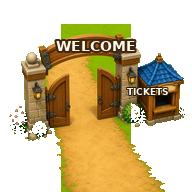
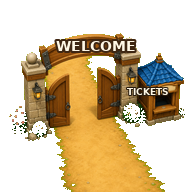
Join the dirt spine to each pen and drop the lime mats.
Punch leftover lawn plates off the gate and exhibit yards. Stop dest-out from eating the south approach, then force a packed-earth figure from the WELCOME mouth to every south bridge. Lose the yellow spreadsheet outline; denizens walk inside the ring; lamps are posts, not people.

diff --git a/typehouse/js/sprites.js b/typehouse/js/sprites.js
@@ -329,6 +329,7 @@
       ["kiln", "well", "greenhouse"].forEach(function (n) {
         if (IMG[n] && srcW(IMG[n])) IMG[n] = punchRail(IMG[n]);
       });
+      if (IMG.cottage && srcW(IMG.cottage)) IMG.cottage = punchCottagePlate(IMG.cottage);
     }
     waiters.splice(0).forEach(function (fn) {
       fn();
@@ -365,7 +366,7 @@
   }
 
   function isPlateLime(r, g, b, a) {
-    return a > 8 && b < 18 && g > 150 && g > r + 12;
+    return a > 8 && g > 100 && g >= r + 8 && g > b + 20 && b < 90;
   }
 
   /* Kill leftover lime grass plate. Keep the circular rail + south wood bridge. */
@@ -418,6 +419,26 @@
         if (bridge) continue;
         px[i + 3] = 0;
       }
+    }
+    ctx.putImageData(data, 0, 0);
+    return c;
+  }
+
+  /* Gatehouse: keep stone, wood, tickets, dirt stub. Lose the lime rectangle. */
+  function punchCottagePlate(im) {
+    var w = srcW(im);
+    var h = srcH(im);
+    if (!w || !h) return im;
+    var c = document.createElement("canvas");
+    c.width = w;
+    c.height = h;
+    var ctx = c.getContext("2d");
+    ctx.drawImage(im, 0, 0);
+    var data = ctx.getImageData(0, 0, w, h);
+    var px = data.data;
+    var i;
+    for (i = 0; i < px.length; i += 4) {
+      if (isPlateLime(px[i], px[i + 1], px[i + 2], px[i + 3])) px[i + 3] = 0;
     }
     ctx.putImageData(data, 0, 0);
     return c;
@@ -583,17 +604,83 @@
       var c = owned[k];
       if (!c || !c.room || c.room === "lobby" || c.room === "transom" || c.room === "larder") return;
       var o = lotOrigin(c, bounds, lot);
+      /* Inner yard only. r=0.40 ate the south bridge (fy≈0.82). */
       ctx.beginPath();
-      ctx.arc(o.x + lot * 0.5, o.y + lot * 0.49, lot * 0.4, 0, Math.PI * 2);
+      ctx.arc(o.x + lot * 0.5, o.y + lot * 0.49, lot * 0.28, 0, Math.PI * 2);
       ctx.fill();
     });
     ctx.restore();
-    var fork = lotPt(1, 1, bounds, lot, 0.5, 0.8);
-    var west = lotPt(0, 1, bounds, lot, 0.5, 0.8);
-    var east = lotPt(2, 1, bounds, lot, 0.5, 0.8);
-    blitCrisp(ctx, "lantern", fork.x + 10, fork.y - 46, 16, 44);
-    blitCrisp(ctx, "lantern", west.x - 8, west.y - 46, 16, 44);
-    blitCrisp(ctx, "lantern", east.x + 8, east.y - 46, 16, 44);
+    paintForcedApproaches(ctx, lot, bounds, owned);
+    paintParkLamps(ctx, lot, bounds, owned);
+  }
+
+  function paintLampPost(ctx, x, y) {
+    ctx.save();
+    ctx.fillStyle = "#2a1c10";
+    ctx.fillRect(Math.round(x) - 2, Math.round(y) - 16, 4, 16);
+    ctx.fillStyle = "#6a5030";
+    ctx.fillRect(Math.round(x) - 1, Math.round(y) - 14, 2, 12);
+    ctx.fillStyle = "rgba(255, 214, 70, 0.28)";
+    ctx.beginPath();
+    ctx.arc(x, y - 18, 8, 0, Math.PI * 2);
+    ctx.fill();
+    ctx.fillStyle = "#ffe060";
+    ctx.beginPath();
+    ctx.arc(x, y - 18, 4, 0, Math.PI * 2);
+    ctx.fill();
+    ctx.restore();
+  }
+
+  function paintParkLamps(ctx, lot, bounds, owned) {
+    var spots = [
+      lotPt(1, 0, bounds, lot, 0.62, 0.78),
+      lotPt(1, 0, bounds, lot, 0.38, 0.34),
+    ];
+    if (hasLot(owned, 1, 1)) spots.push(lotPt(1, 1, bounds, lot, 0.64, 0.86));
+    if (hasLot(owned, 0, 1)) spots.push(lotPt(0, 1, bounds, lot, 0.5, 0.86));
+    if (hasLot(owned, 2, 1)) spots.push(lotPt(2, 1, bounds, lot, 0.5, 0.86));
+    if (hasLot(owned, 1, 2)) spots.push(lotPt(1, 2, bounds, lot, 0.64, 0.86));
+    spots.forEach(function (p) {
+      paintLampPost(ctx, p.x, p.y);
+    });
+  }
+
+  /* After dest-out: one dirt figure from the gate mouth to each pen south bridge.
+     South lips + a side bypass — never recross a punched yard. */
+  function paintForcedApproaches(ctx, lot, bounds, owned) {
+    var mouth = lotPt(1, 0, bounds, lot, 0.5, 0.96);
+    var gateN = lotPt(1, 0, bounds, lot, 0.5, 0.16);
+    var emberLip = lotPt(1, 1, bounds, lot, 0.5, 0.86);
+    paintVisitorPath(ctx, mouth.x, mouth.y, gateN.x, gateN.y);
+    paintVisitorPath(ctx, gateN.x, gateN.y, emberLip.x, emberLip.y);
+
+    var rows = {};
+    Object.keys(owned).forEach(function (k) {
+      var c = owned[k];
+      if (!c || !c.room || c.room === "lobby") return;
+      if (!rows[c.y]) rows[c.y] = [];
+      rows[c.y].push(c);
+      var bridge = lotPt(c.x, c.y, bounds, lot, 0.5, 0.84);
+      var lip = lotPt(c.x, c.y, bounds, lot, 0.5, 0.88);
+      paintVisitorPath(ctx, bridge.x, bridge.y, lip.x, lip.y);
+      if (c.x !== 1) {
+        paintVisitorPath(ctx, lip.x, lip.y, lotPt(1, c.y, bounds, lot, 0.5, 0.88).x, lotPt(1, c.y, bounds, lot, 0.5, 0.88).y);
+      }
+    });
+
+    Object.keys(rows)
+      .map(Number)
+      .sort(function (a, b) {
+        return a - b;
+      })
+      .forEach(function (y) {
+        if (y <= 1) return;
+        var hi = lotPt(1, y, bounds, lot, 0.88, 0.88);
+        var lo = lotPt(1, y - 1, bounds, lot, 0.88, 0.88);
+        paintVisitorPath(ctx, hi.x, hi.y, lo.x, lo.y);
+        paintVisitorPath(ctx, hi.x, hi.y, lotPt(1, y, bounds, lot, 0.5, 0.88).x, lotPt(1, y, bounds, lot, 0.5, 0.88).y);
+        paintVisitorPath(ctx, lo.x, lo.y, lotPt(1, y - 1, bounds, lot, 0.5, 0.88).x, lotPt(1, y - 1, bounds, lot, 0.5, 0.88).y);
+      });
   }
 
   function lotPt(x, y, bounds, lot, fx, fy) {
@@ -739,8 +826,8 @@
     } else if (yard && srcW(IMG[yard])) {
       ctx.save();
       ctx.beginPath();
-      ctx.arc(w * 0.5, h * 0.49, Math.min(w, h) * 0.44, 0, Math.PI * 2);
-      ctx.rect(w * 0.5 - 16, h * 0.72, 32, 28);
+      ctx.arc(w * 0.5, h * 0.49, Math.min(w, h) * 0.415, 0, Math.PI * 2);
+      ctx.rect(w * 0.5 - 14, h * 0.74, 28, 26);
       ctx.clip();
       drew = blitCrisp(ctx, yard, 0, 0, w, h);
       ctx.restore();
@@ -756,11 +843,20 @@
       ctx.arc(w / 2, h / 2, Math.min(w, h) * 0.4, 0, Math.PI * 2);
       ctx.fill();
     }
-    if (opt.selected) {
-      ctx.strokeStyle = "#e8c428";
-      ctx.lineWidth = 3;
+    if (opt.selected && kind !== "lobby") {
+      /* Glow on the rail — not a yellow spreadsheet cell. */
+      var hx = w * 0.5;
+      var hy = h * 0.49;
+      var hr = Math.min(w, h) * 0.405;
+      ctx.strokeStyle = "rgba(255, 214, 90, 0.5)";
+      ctx.lineWidth = 5;
       ctx.beginPath();
-      ctx.arc(w / 2, h / 2 - 2, Math.min(w, h) * 0.46, 0, Math.PI * 2);
+      ctx.arc(hx, hy, hr, 0, Math.PI * 2);
+      ctx.stroke();
+      ctx.strokeStyle = "rgba(255, 236, 160, 0.85)";
+      ctx.lineWidth = 2;
+      ctx.beginPath();
+      ctx.arc(hx, hy, hr, 0, Math.PI * 2);
       ctx.stroke();
     }
   }
@@ -770,14 +866,8 @@
   }
 
   function paintEmpty(canvas, opt) {
-    opt = opt || {};
     var ctx = canvas.getContext("2d");
     ctx.clearRect(0, 0, canvas.width, canvas.height);
-    if (opt.selected) {
-      ctx.strokeStyle = "#e8c428";
-      ctx.lineWidth = 3;
-      ctx.strokeRect(2, 2, canvas.width - 4, canvas.height - 4);
-    }
   }
 
   function paintFog(canvas, opt) {
@@ -788,11 +878,6 @@
     ctx.imageSmoothingEnabled = false;
     ctx.clearRect(0, 0, w, h);
     if (!opt.inert) blitCrisp(ctx, "buyland", Math.floor(w * 0.3), Math.floor(h * 0.28), Math.floor(w * 0.4), Math.floor(h * 0.58));
-    if (opt.selected) {
-      ctx.strokeStyle = "#e8c428";
-      ctx.lineWidth = 3;
-      ctx.strokeRect(2, 2, w - 4, h - 4);
-    }
   }
 
   function paintIcon(size) {

diff --git a/typehouse/js/wander.js b/typehouse/js/wander.js
@@ -11,7 +11,7 @@
   var LOT = 192;
   var GW = 36;
   var GH = 36;
-  var RING = 0.28;
+  var RING = 0.32;
 
   function rng() {
     seed = (Math.imul(seed, 1664525) + 1013904223) >>> 0;
@@ -77,8 +77,10 @@
   }
 
   function makeActor(d, room) {
-    var gate = gatePoint();
-    var stand = standPoint(room);
+    var gate = T.isFenced(room)
+      ? { x: LOT * 0.5 - GW * 0.5, y: LOT * 0.78 - GH * 0.5 }
+      : gatePoint();
+    var walk = walkTarget(room);
     return {
       id: d.id,
       kind: d.kind,
@@ -86,14 +88,30 @@
       y: d.y,
       px: gate.x,
       py: gate.y,
-      tx: stand.x,
-      ty: stand.y,
-      state: "enter",
+      tx: walk.x,
+      ty: walk.y,
+      state: "walk",
       face: 1,
       hold: 0,
-      enterLeft: 0.4,
+      enterLeft: 0,
       meetWith: null,
       meetDir: null,
+    };
+  }
+
+  function walkTarget(room) {
+    if (T.isFenced(room)) {
+      var ang = rng() * Math.PI * 2;
+      var rad = LOT * RING * (0.4 + rng() * 0.55);
+      return {
+        x: LOT * 0.5 - GW * 0.5 + Math.cos(ang) * rad,
+        y: LOT * 0.48 - GH * 0.5 + Math.sin(ang) * rad,
+      };
+    }
+    var pad = walkPad(room);
+    return {
+      x: pad + rng() * (LOT - pad * 2 - GW),
+      y: pad + rng() * (LOT - pad * 2 - GH),
     };
   }
 
@@ -161,17 +179,10 @@
   }
 
   function startWalk(a, room) {
+    var p = walkTarget(room);
     a.state = "walk";
-    if (T.isFenced(room)) {
-      var ang = rng() * Math.PI * 2;
-      var rad = rng() * LOT * (RING - 0.08);
-      a.tx = LOT * 0.5 - GW * 0.5 + Math.cos(ang) * rad;
-      a.ty = LOT * 0.48 - GH * 0.5 + Math.sin(ang) * rad;
-    } else {
-      var pad = walkPad(room);
-      a.tx = pad + rng() * (LOT - pad * 2 - GW);
-      a.ty = pad + rng() * (LOT - pad * 2 - GH);
-    }
+    a.tx = p.x;
+    a.ty = p.y;
     a.hold = 0;
   }
 
@@ -251,11 +262,11 @@
     }
     var c = T.cell(s, d.x, d.y);
     var home = c && T.yieldMult(s, d, c).home;
-    if (d.stage >= 1 && home && rng() < 0.28) {
+    if (d.stage >= 1 && home && rng() < 0.1) {
       startSit(a);
       return;
     }
-    if (rng() < 0.35) {
+    if (rng() < 0.12) {
       startInteract(a);
       return;
     }
@@ -266,7 +277,7 @@
     var dx = a.tx - a.px;
     var dy = a.ty - a.py;
     var dist = Math.hypot(dx, dy);
-    var spd = 56 * dt;
+    var spd = 78 * dt;
     if (dist <= spd || dist < 0.8) {
       a.px = a.tx;
       a.py = a.ty;
@@ -295,19 +306,7 @@
       var c = T.cell(s, d.x, d.y);
       var room = c && c.room;
       if (a.state === "enter") {
-        var t = a.enterLeft / 0.4;
-        var gate = gatePoint();
-        var stand = standPoint(room);
-        var u = 1 - Math.max(0, t);
-        a.px = gate.x + (stand.x - gate.x) * u;
-        a.py = gate.y + (stand.y - gate.y) * u;
-        a.enterLeft -= dt;
-        if (a.enterLeft <= 0) {
-          a.px = stand.x;
-          a.py = stand.y;
-          a.state = "idle";
-          a.hold = 0.6 + rng() * 1.4;
-        }
+        startWalk(a, room);
         clampWalk(a, room);
         return;
       }
@@ -315,16 +314,16 @@
         if (stepToward(a, dt)) {
           if (a.after === "interact") {
             a.state = "interact";
-            a.hold = 1.2 + rng() * 1.2;
+            a.hold = 0.6 + rng() * 0.6;
           } else if (a.after === "sit") {
             a.state = "sit";
-            a.hold = 2 + rng() * 2;
+            a.hold = 0.8 + rng() * 0.8;
           } else if (a.after === "meet") {
             a.state = "meet";
-            a.hold = 1.6 + rng() * 0.8;
+            a.hold = 1.2 + rng() * 0.6;
           } else {
             a.state = "idle";
-            a.hold = 0.8 + rng() * 1.8;
+            a.hold = 0.12 + rng() * 0.25;
           }
           a.after = null;
         }

diff --git a/typehouse/README.md b/typehouse/README.md
@@ -6,7 +6,7 @@ We do not ask what they are. We ask which grounds.
 
 This is original IP. Not a farm, not a battler, not Nintendo, not Pokémon, not 3D.
 
-Yards are authored PNGs in `typehouse/img/` (kiln, well, greenhouse, cottage, grass, trees, Wicknoll). Exhibit PNGs are punched to the circular rail so they sit on the shared lawn, not a square grass plate. A packed-earth spine runs from the WELCOME gate mouth to each pen’s south bridge.
+Yards are authored PNGs in `typehouse/img/` (kiln, well, greenhouse, cottage, grass, trees, Wicknoll). Exhibit and gate PNGs lose their lime grass plates so they sit on the shared lawn. A packed-earth figure is forced from the WELCOME gate mouth to each pen’s south bridge. Selected pens glow on the rail, not a yellow rectangle. Denizens walk inside the ring.
 
 ## Run locally
 
